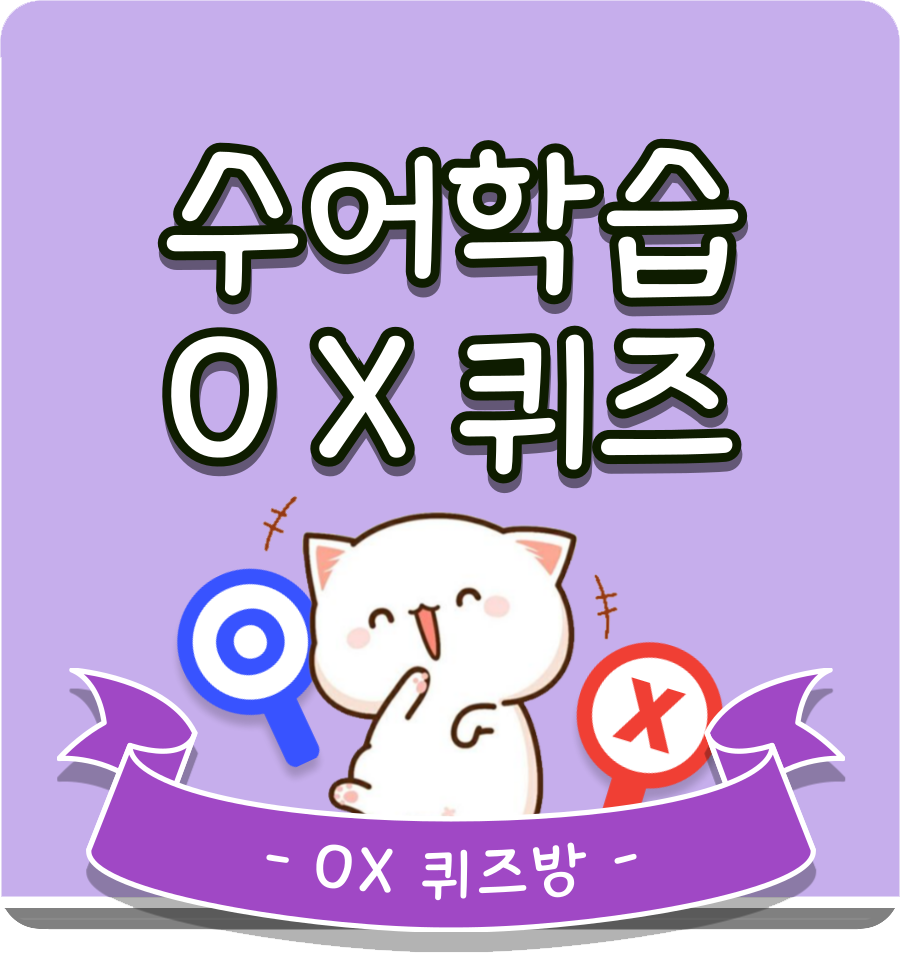
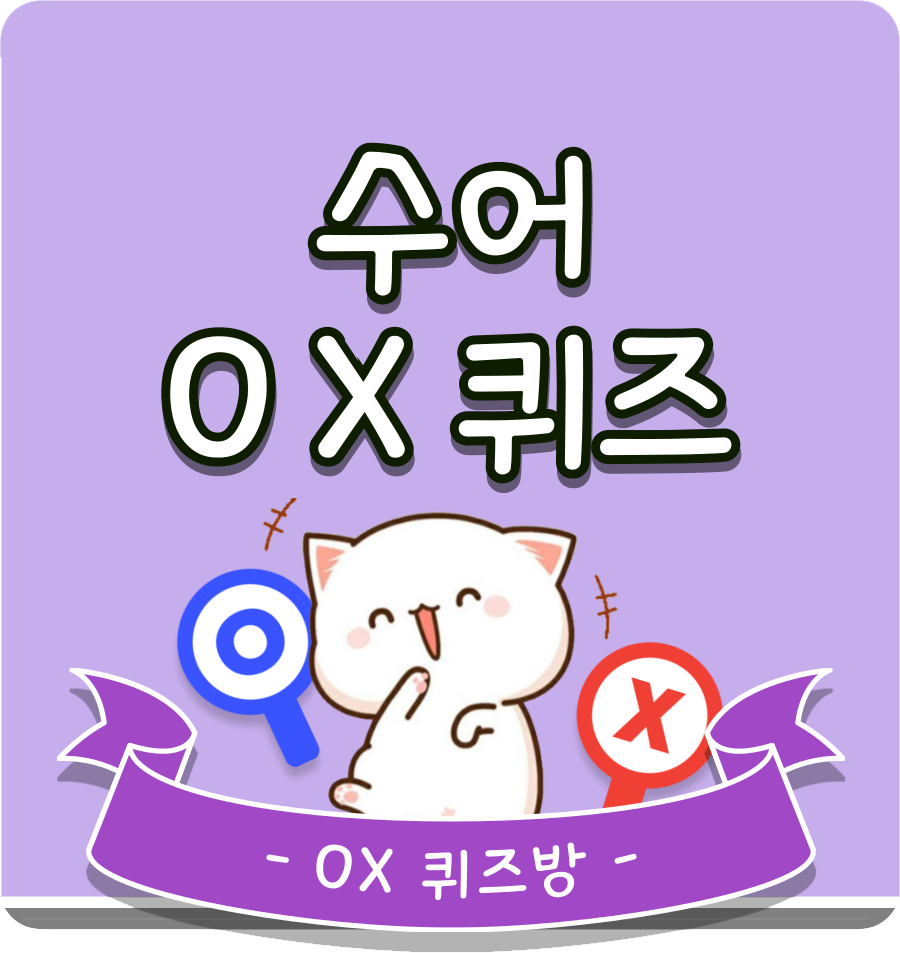
[S06P12D203-83][FE-박유정] refactor: 메인 페이지 및 Nav UI 리뉴얼, feat: 메인 로고,학습 이미지 제작 및 추가

diff --git a/client/src/components/views/MainPage/MainStudy.scss b/client/src/components/views/MainPage/MainStudy.scss
@@ -856,18 +856,18 @@
 }
 
 .sign {
-  background: url(http://123000.synology.me/xe/files/attach/images/144/478/017/19f16ad850ad8f0b13b414d9a418c984.gif) #fff no-repeat 8px 8px;
-  background-size:400px;
+  background: url(./수어학습.gif) #fff no-repeat 0px 0px;
+  background-size:420px;
   box-shadow: 0 1px 0 0 rgba(0, 0, 0, .1);
   height: 420px;
   right:19%;
   position: absolute;
   top: 130px;
   width: 420px;
-  border: 5px solid #948573;
+  border: 5px solid #737894;
   box-shadow: 
     0 2px 0 0 rgba(0, 0, 0, .2),
-    inset 0 0 0 2px #c9bdaf;
+    inset 0 0 0 2px #b3afc9;
   border-top-right-radius: 25px;
   border-top-left-radius: 25px;
   border-bottom-right-radius: 25px;
@@ -875,17 +875,17 @@
 }
 
 .signbtn {
-  background: url(http://123000.synology.me/xe/files/attach/images/144/478/017/19f16ad850ad8f0b13b414d9a418c984.gif) #fff no-repeat 8px 8px;
+  background-color: #be76f8;
   box-shadow: 0 1px 0 0 rgba(0, 0, 0, .1);
   height: 70px;
   right:22%;
   position: absolute;
   top: 600px;
   width: 250px;
-  border: 5px solid #948573;
+  border: 5px solid #737894;
   box-shadow: 
     0 2px 0 0 rgba(0, 0, 0, .2),
-    inset 0 0 0 2px #c9bdaf;
+    inset 0 0 0 2px #b3afc9;
   border-top-right-radius: 25px;
   border-top-left-radius: 25px;
   border-bottom-right-radius: 25px;
@@ -893,18 +893,18 @@
 }
 
 .finger {
-  background: url(http://123000.synology.me/xe/files/attach/images/144/478/017/19f16ad850ad8f0b13b414d9a418c984.gif) #fff no-repeat 8px 8px;
-  background-size:400px;
+  background: url(./지문자학습.gif) #fff no-repeat 0px 0px;
+  background-size:420px;
   box-shadow: 0 1px 0 0 rgba(0, 0, 0, .1);
   height: 420px;
   left:20%;
   position: absolute;
   top: 130px;
   width: 420px;
-  border: 5px solid #948573;
+  border: 5px solid #737894;
   box-shadow: 
     0 2px 0 0 rgba(0, 0, 0, .2),
-    inset 0 0 0 2px #c9bdaf;
+    inset 0 0 0 2px #b3afc9;
   border-top-right-radius: 25px;
   border-top-left-radius: 25px;
   border-bottom-right-radius: 25px;
@@ -912,17 +912,17 @@
 }
 
 .fingerbtn {
-  background: url(http://123000.synology.me/xe/files/attach/images/144/478/017/19f16ad850ad8f0b13b414d9a418c984.gif) #fff no-repeat 8px 8px;
+  background-color: #7391f3;
   box-shadow: 0 1px 0 0 rgba(0, 0, 0, .1);
   height: 70px;
   left:23%;
   position: absolute;
   top: 600px;
   width: 250px;
-  border: 5px solid #948573;
+  border: 5px solid #737894;
   box-shadow: 
     0 2px 0 0 rgba(0, 0, 0, .2),
-    inset 0 0 0 2px #c9bdaf;
+    inset 0 0 0 2px #b3afc9;
   border-top-right-radius: 25px;
   border-top-left-radius: 25px;
   border-bottom-right-radius: 25px;

diff --git a/client/src/components/views/MainPage/MainGame.scss b/client/src/components/views/MainPage/MainGame.scss
@@ -12,6 +12,7 @@
   position: relative;
   }
 
+  
 
 .oxquiz {
   background: url('./ox퀴즈.png') #fff no-repeat 8px 8px;
@@ -19,7 +20,7 @@
   //버튼 내부 이미지 사이즈 조정
   box-shadow: 0 1px 0 0 rgba(0, 0, 0, .1);
   height: 750px;
-  right:13%;
+  right:15%;
   position: absolute;
   top: 300px;
   width: 575px;
@@ -34,7 +35,7 @@
 }
 
 .fingerquiz {
-  background: url('./ox퀴즈.png') #fff no-repeat 8px 8px;
+  background: url('./지문자퀴즈.png') #fff no-repeat 8px 8px;
   background-size: 550px;
   //버튼 내부 이미지 사이즈 조정
   box-shadow: 0 1px 0 0 rgba(0, 0, 0, .1);
@@ -104,7 +105,7 @@
     font-size: 2rem;
     //버튼 가로 사이즈
     color: #fff;
-    background-color: #d38af0;
+    background-color: #7391f3;
     // background-color: #acc7ed;
     border-radius: 10rem;
     padding: 1.5rem 4rem 2rem;
@@ -164,12 +165,12 @@
 }
 
 .playrightbtn {
-  // position: absolute;
+  position: absolute;
   height: 80vh;
   width: 100vh;
   overflow: hidden;
   top: 35%;
-  right: -26%;
+  right: 0%;
 
   canvas {
     position: absolute;
@@ -204,7 +205,7 @@
     font-size: 2rem;
     //버튼 가로 사이즈
     color: #fff;
-    background-color: #d38af0;
+    background-color: #be76f8;
     // background-color: #acc7ed;
     border-radius: 10rem;
     padding: 1.5rem 4rem 2rem;

diff --git a/client/src/components/views/NavBar/NavBar.js b/client/src/components/views/NavBar/NavBar.js
@@ -5,11 +5,11 @@ import { Router, Link, Route, Switch } from 'react-router-dom';
 function NavBar() {
   return(
     <div>
-    <Navbar bg="light" expand="lg">
+    <Navbar bg="light" expand="lg" >
     <Container>   
-    <Navbar.Brand as={Link} to='/main'>로고</Navbar.Brand>
+    <Navbar.Brand as={Link} to='/main' style={{fontSize:'2.5vh'}}> 🤟N:ear</Navbar.Brand>
     <Navbar.Toggle aria-controls="basic-navbar-nav" />
-    <Navbar.Collapse id="basic-navbar-nav">
+    <Navbar.Collapse id="basic-navbar-nav" style={{flexDirection:'column',alignContent:'flex-end',flexWrap: 'wrap'}}>
       <Nav className="me-auto">
         {/* <Nav.Link href="#home">Home</Nav.Link> */}
         {/* <Nav.Link href="login">Link</Nav.Link> */}
@@ -19,7 +19,7 @@ function NavBar() {
         </NavDropdown>
         <NavDropdown title="학습게임" id="basic-nav-dropdown">
           <NavDropdown.Item as={Link} to='/oxquiz/start'>OX퀴즈</NavDropdown.Item>
-          <NavDropdown.Item as={Link} to='/teamplay'>팀플레이</NavDropdown.Item>
+          <NavDropdown.Item as={Link} to='/teamplay'>단어퀴즈</NavDropdown.Item>
         </NavDropdown>
         <Nav.Link as={Link} to='/myvoca'>단어장</Nav.Link>
         

diff --git a/client/src/components/views/MainPage/MainStudy.js b/client/src/components/views/MainPage/MainStudy.js
@@ -66,8 +66,8 @@ const MainStudy = () => {
   
   <button class="finger"></button>
   <button class="sign"></button>
-  <button class="fingerbtn"></button>
-  <button class="signbtn"></button>
+  <button class="fingerbtn" style={{fontSize:'2vh', color:'white'}}>학습하기</button>
+  <button class="signbtn" style={{fontSize:'2vh', color:'white'}}>학습하기</button>
   
   <div class="glasses">
       <div class="glasses-left"></div>

diff --git a/client/src/components/views/MainPage/MainGame.js b/client/src/components/views/MainPage/MainGame.js
@@ -1,18 +1,16 @@
 import React from 'react';
 import './MainGame.scss';
+import { Container } from 'react-bootstrap';
 
 const MainGame = () => {
 
 
 
   return (
-  <div >
-    {/* <h1>Play with Me</h1> */}
+  <div>
     <div class="background_game">
     <button class="oxquiz">
     
-
-
     </button>
     <button class="fingerquiz"></button>
 

diff --git a/client/src/components/views/MainPage/MainPage.js b/client/src/components/views/MainPage/MainPage.js
@@ -10,7 +10,7 @@ import NavBar from '../NavBar/NavBar';
 function MainPage(props) {
 
   return (
-    <div style={{
+    <div style={{ 
       // display:'flex', justifyContent: 'center', alignItems: 'center'
       // ,width: '100%', height: '100vh'
     }}>

diff --git a/client/src/components/views/MainPage/MainHeader.js b/client/src/components/views/MainPage/MainHeader.js
@@ -98,8 +98,8 @@ $(document).ready(function(){
     </div>
     </div>
     
-    <div class="content flex">
-    </div>
+    {/* <div class="content flex">
+    </div> */}
     </div>
   );
 };
